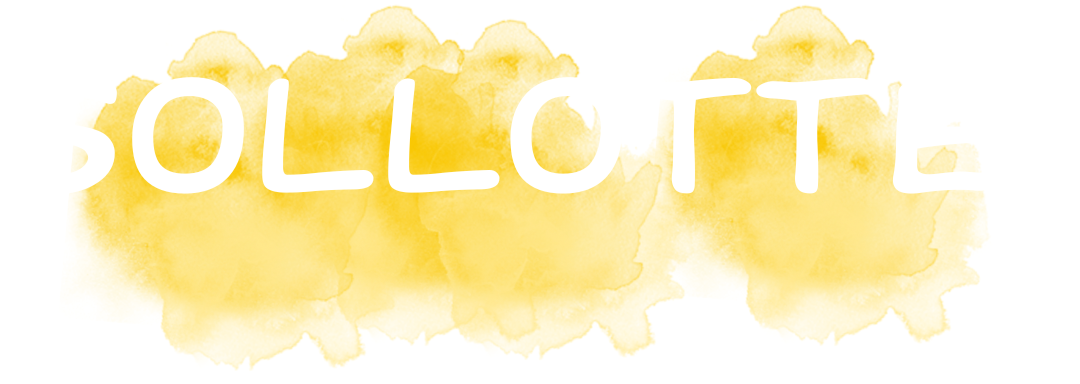
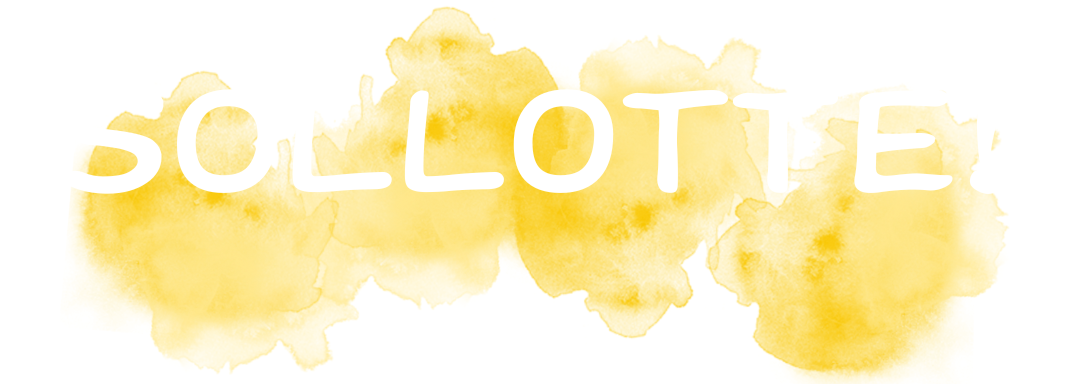
assets各画像ロゴ修正

diff --git a/lib/main.dart b/lib/main.dart
@@ -28,7 +28,7 @@ Future<void> main() async {
   );
 
   final token = await messaging.getToken();
-  print('🐯 FCM TOKEN: $token');
+  print('FCM TOKEN: $token');
 
   runApp(
     const ProviderScope(child: MyApp()),
